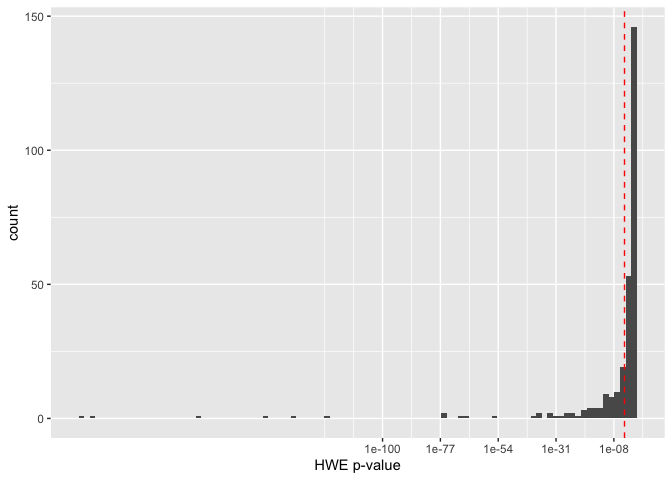
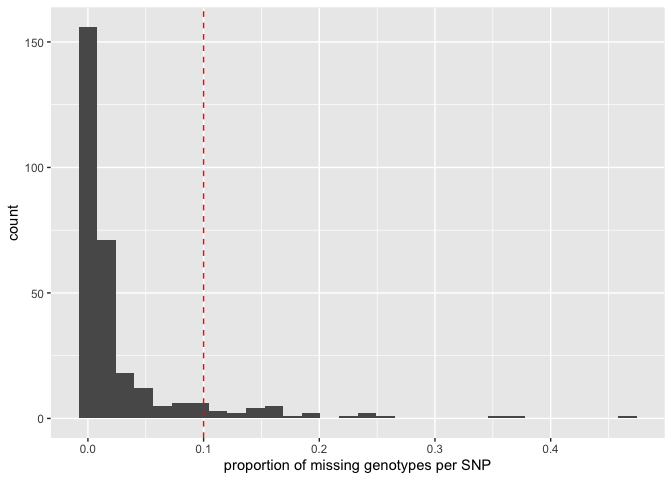
added discussion

diff --git a/p75matrix.md b/p75matrix.md
@@ -5,7 +5,7 @@ juvenile Nisqually River Chinook salmon
 This is an exploratory analysis based on DFW’s data filtering criteria,
 plus a few more filters. The ML parentage analysis uses `sequoia()`.
 This is an unusual parentage analysis because of the many juveniles and
-relatively few adults.
+few adults.
 
 First we load package libraries and set our working directory.
 
@@ -341,13 +341,17 @@ gm <-
 hets <- 
   rowSums(gm$Mrecode==1, na.rm=TRUE) / 
   (rowSums(gm$Mrecode==0, na.rm=TRUE) + rowSums(gm$Mrecode==2, na.rm=TRUE))
+```
 
+``` r
 round(min(hets)*100, 1) 
 ```
 
     ## [1] 12.1
 
-The minimum is 12% heterozygous genotypes, so filtering needed.
+``` r
+# The minimum heterozygous genotypes observed is 12.1%, so no filtering is needed.
+```
 
 DFW filters SNPs with less than 10% missing genotypes. Lets see what
 that looks like.
@@ -366,7 +370,7 @@ as.data.frame(snpstats) |>
 
     ## `stat_bin()` using `bins = 30`. Pick better value `binwidth`.
 
-![](p75matrix_files/figure-gfm/unnamed-chunk-19-1.png)<!-- -->
+![](p75matrix_files/figure-gfm/unnamed-chunk-20-1.png)<!-- -->
 
 DFW doesn’t do any filtering based on conformance to Hardy-Weinberg
 Equilibrium (HWE). I think severe violations of HWE are a good
@@ -388,7 +392,7 @@ as.data.frame(snpstats) |>
     ## Warning: Removed 15 rows containing non-finite outside the scale range
     ## (`stat_bin()`).
 
-![](p75matrix_files/figure-gfm/unnamed-chunk-20-1.png)<!-- -->
+![](p75matrix_files/figure-gfm/unnamed-chunk-21-1.png)<!-- -->
 
 Lets filter SNPs with ≥ 90% genotypes and HWE.p ≥ 0.05/n. DFW doesn’t
 filter SNPs based on Minor Allele Frequency (MAF), but I’m going to
@@ -809,12 +813,12 @@ par1 <-
     ## 
     ##  Time    |  R |  Step      |  Progress  | Dams  | Sires |  GPs  |   Total LL 
     ## -------- | -- | ---------- | ---------- | ----- | ----- | ----- | ----------
-    ## 07:15:46 |  0 | count OH   |            | 
-    ## 07:15:46 |  0 | initial    |            |     0 |     0 |     0 |  -505624.0 
-    ## 07:15:46 |  1 | parents    | .......... |    81 |    91 |     0 |  -504261.2 
-    ## 07:16:00 |  2 | parents    | .......... |    83 |    92 |     0 |  -504256.0 
-    ## 07:16:14 |  3 | parents    | .......... |    83 |    92 |     0 |  -504256.0 
-    ## 07:16:27 | 99 | est byears | .......... |
+    ## 09:18:04 |  0 | count OH   |            | 
+    ## 09:18:04 |  0 | initial    |            |     0 |     0 |     0 |  -505624.0 
+    ## 09:18:04 |  1 | parents    | .......... |    81 |    91 |     0 |  -504261.2 
+    ## 09:18:18 |  2 | parents    | .......... |    83 |    92 |     0 |  -504256.0 
+    ## 09:18:31 |  3 | parents    | .......... |    83 |    92 |     0 |  -504256.0 
+    ## 09:18:45 | 99 | est byears | .......... |
 
     ## ✔ assigned 83 dams and 92 sires to 8831 individuals
 
@@ -1023,12 +1027,12 @@ tibble(
   sex=c(rep("female", table(par1$PedigreePar$dam) |> length()), rep("male", table(par1$PedigreePar$sire) |> length()))) |> 
   ggplot(aes(x=x, fill=sex)) + 
   geom_histogram(position="dodge") + 
-  labs(x="number of offspring", title="Do males exhibit higher variance in reproductive success?")
+  labs(x="number of offspring", title="Do males have higher variance in reproductive success?")
 ```
 
     ## `stat_bin()` using `bins = 30`. Pick better value `binwidth`.
 
-![](p75matrix_files/figure-gfm/unnamed-chunk-26-1.png)<!-- -->
+![](p75matrix_files/figure-gfm/unnamed-chunk-27-1.png)<!-- -->
 
 Lets crunch the numbers and see…
 
@@ -1048,8 +1052,10 @@ rbind(female=round(female, 1), male=round(male, 1))
     ## female  1.6      1.6
     ## male    1.6      3.6
 
-As would be expected under the theory of sexual selection, the male has
-higher variance in reproductive success. One male had 13 offspring!
+``` r
+# As expected under sexual selection theory, males have higher variance in
+# reproductive success. One male had 13 offspring!  
+```
 
 Now lets take a look at the NEWHYBRIDS assignments of PO pairs.
 
@@ -1488,6 +1494,13 @@ table(par1par$offspring, par1par$maternal)
     ##   unassigned          2        1          2  1
     ##   UO                  1        5         13 31
 
+``` r
+# This makes sense. Most offspring have the same NEWHYBRIDS assignment as
+# their inferred maternal parent. Also, F1Hybrids don't beget F1Hybrids,
+# and we don't see that in the NEWHYBRIDS assignment of inferred PO pairs,
+# so that's affirming.
+```
+
 NEWHYBRIDS assignments of paternal PO pairs. The paternal assignment is
 by column and their offspring’s assignment is by row.
 
@@ -1501,6 +1514,18 @@ table(par1par$offspring, par1par$paternal)
     ##   F1Hybrid            5        0          0  1
     ##   unassigned          2        1          0  3
     ##   UO                  9        3          6 46
+
+``` r
+# This mostly makes sense. It's interesting to see how many UO offspring 
+# (n=9 presumably local Nisqually origin) are sired by fathers assigned 
+# to ClearCreek hatchery. Another observation that's interesting here and
+# in the maternal results above is how F1Hybrid parents appear to backcross
+# only with UO spawners, and not ClearCreek (as inferred from NEWHYBRIDS
+# assignment of offspring). This observation leads to some fascinating
+# questions in ecology and evolutionary biology, but our sample sizes are
+# very small and we're playing fast-and-loose with the assumptions we've
+# made to produce this result.  
+```
 
 Lets see what the inferred/assumed age distribution of juvenile parents
 looks like.
@@ -1521,7 +1546,7 @@ ggplot(page, mapping=aes(x=age, y=count, fill=sex)) +
   labs(title="Inferred age structure of juvenile parents assuming no yearling LH")
 ```
 
-![](p75matrix_files/figure-gfm/unnamed-chunk-34-1.png)<!-- -->
+![](p75matrix_files/figure-gfm/unnamed-chunk-35-1.png)<!-- -->
 
 Lets look at parentage assignments where the mother or father are
 adults.
@@ -1567,9 +1592,11 @@ filter(
     ## 26 s20LV1328   <NA>      a19QX3667 ClearCreek <NA>       ClearCreek  2019
     ## 27 s20LV1350   a19QX2196 <NA>      ClearCreek ClearCreek <NA>        2019
 
-The results above are mostly sensible. Row 17 does not make sense,
-because an adult transported to the spawning grounds in fall of 2019
-cannot possibly sire offspring sampled in spring of 2019.
+``` r
+# The results above are mostly sensible. Row 17 does not make sense, because
+# an adult transported to the spawning grounds in fall of 2019 cannot possibly
+# sire offspring sampled in spring of 2019. 
+```
 
 Lets look at female tabs.
 
@@ -1622,6 +1649,3 @@ filter(
     ## 5 a18QN3757     2
     ## 6 a19QX2725     1
     ## 7 a19QX3667     2
-
-I would have expected higher variance in the number of offspring of
-adult males.
